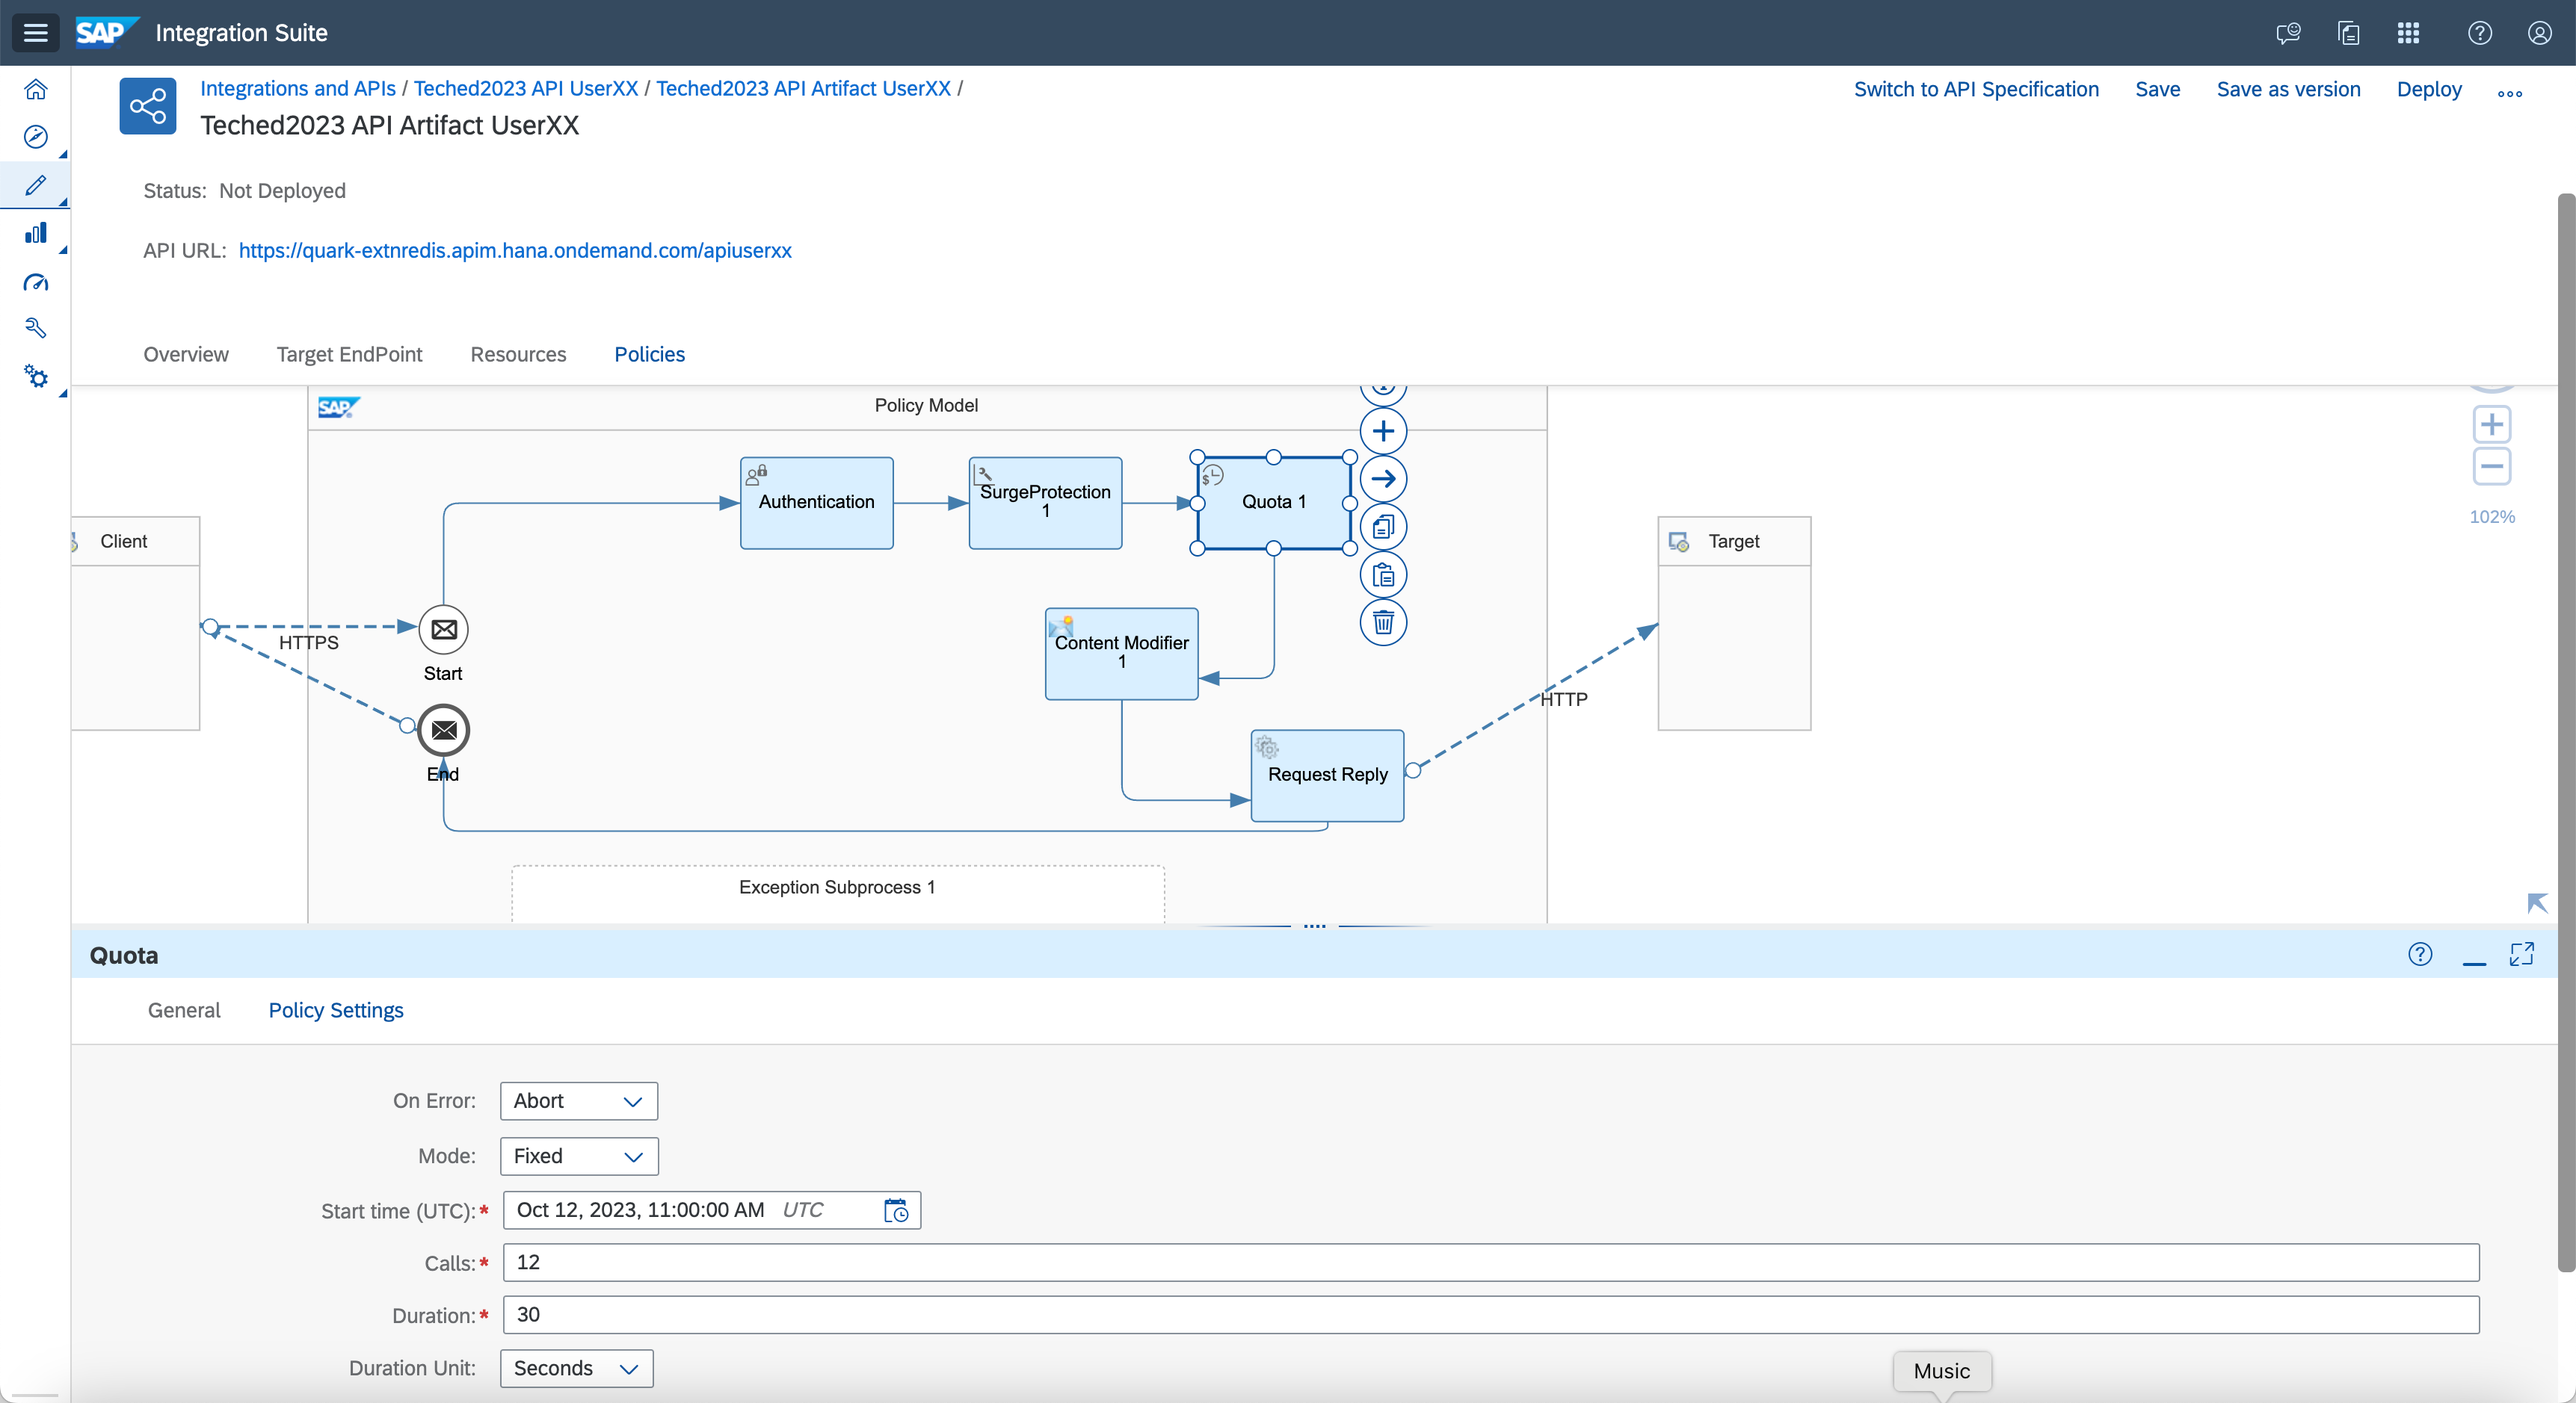
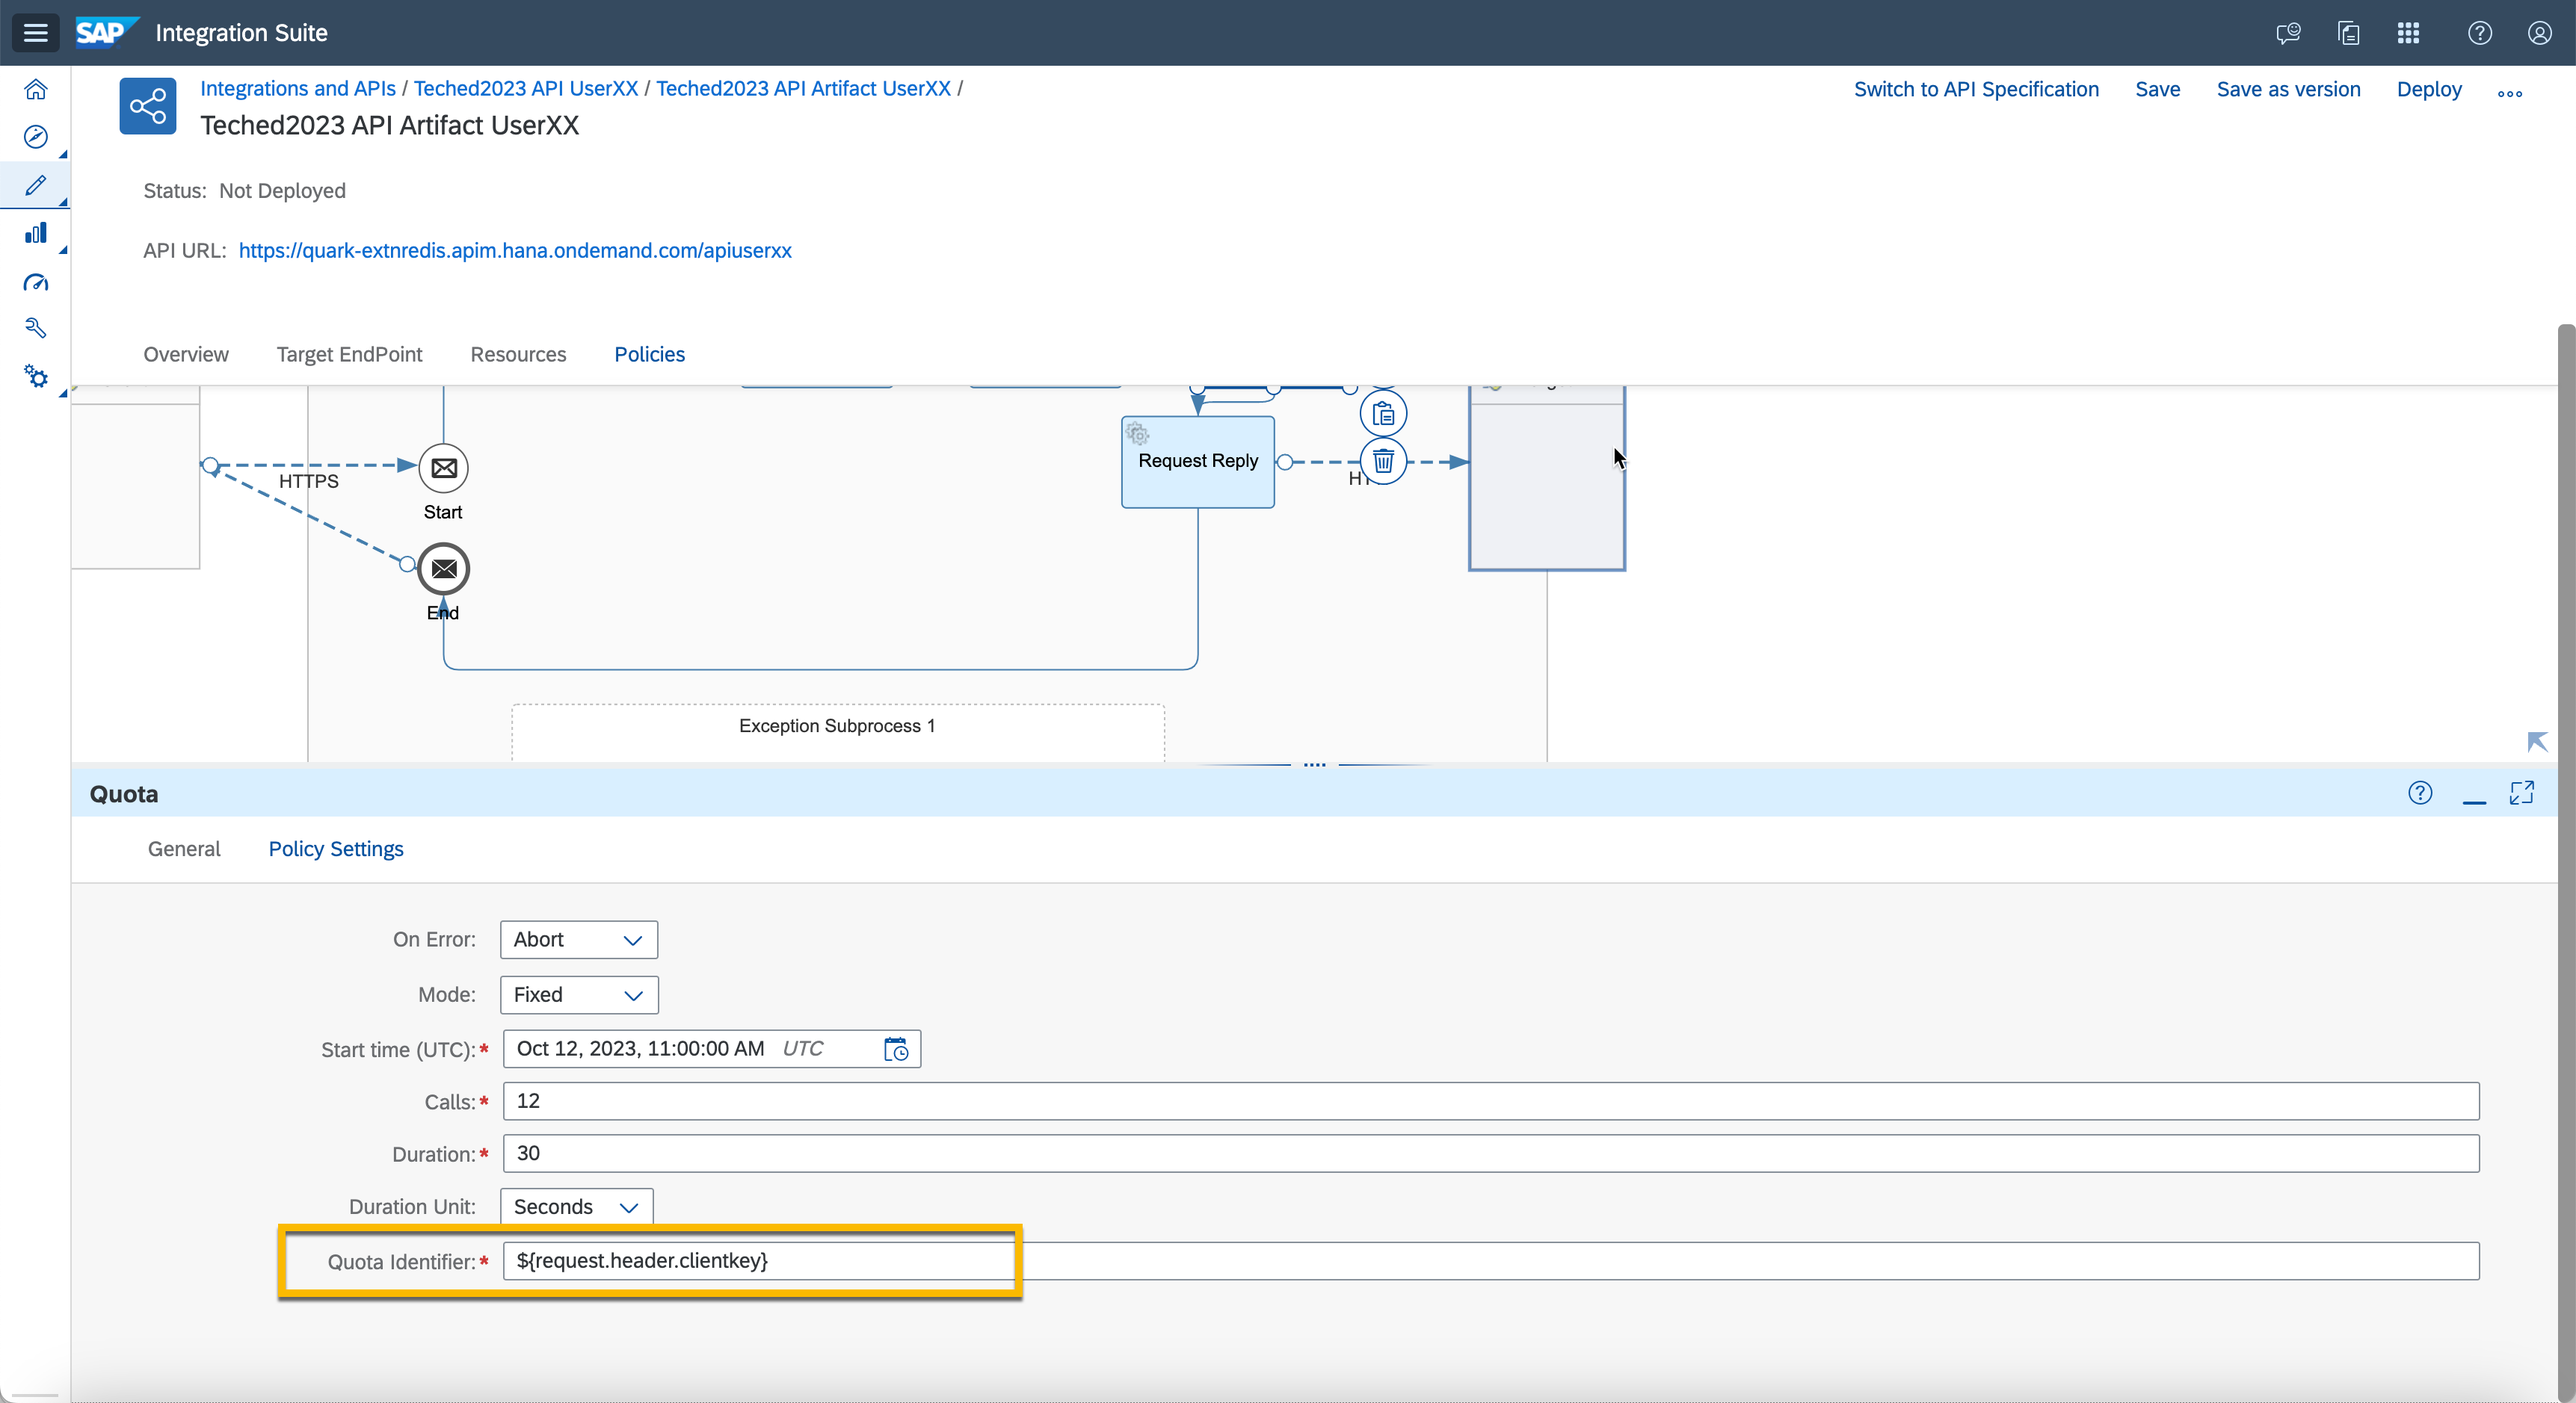
finishing the testing part

diff --git a/exercises/ex4/README.md b/exercises/ex4/README.md
@@ -54,7 +54,7 @@ In the final part of the tutorial, we will create an API, which is a unified ent
 
 <br>![](/exercises/ex4/images/04_12_0010.png)
 
-13. Fill in the remaining fields in the Quota Policy property sheet and click on Save. For the purpose of this exercise, we are allowing 12 calls in a span of 30 seconds for any client which tries to access the API. The client id should be passed as part of the incoming request. We would pass this during the testing of the API
+13. Fill in the remaining fields in the Quota Policy property sheet and click on Save. For the purpose of this exercise, we are allowing 12 calls in a span of 30 seconds for any client which tries to access the API. The field "Quota Identifier" should uniquely identify the client against which the quota is assigned. As part of the highlighted configuration ,it expects "clientkey" header as part of the incoming request to contain the value of the client identifier. Failing to pass this header in the incoming request should fail the policy and hence the request, that is in accordance with the "On Error" configuration which is configured to "Abort" the request if the policy fails. We would verify this during the testing of the API
 
 <br>![](/exercises/ex4/images/04_13_0010.png)
 
@@ -74,12 +74,29 @@ In the final part of the tutorial, we will create an API, which is a unified ent
 
 <br>![](/exercises/ex4/images/04_16_0010.png)
 
-18. Click on Manage Integration Content and confirm that the deployed artifact is in a "Started" state
+18. Click on Manage Integration Content and confirm that the deployed artifact is in a "Started" state and the API is deployed successfully
 
 <br>![](/exercises/ex4/images/04_17_0010.png)
 
 19. From the dropdown, we would select Debug as the log level such that later on post execution of the API , we can visualize the execution of policies and steps in the deployed artifact
 
-<br>![](/exercises/ex4/images/04_17_0010.png)
+<br>![](/exercises/ex4/images/04_18_0010.png)
 
     
+20. Now that we have successfully deployed the API , it is time to test the API. Lets make a call to the deployed artifact endpoint. It should throw an error as shown below since the clientkey header is not passed as part of the incoming request as mentioned in step 12
+
+<br>![](/exercises/ex4/images/04_19_0010.png)
+
+21. Add the required header as part of the request.
+
+<br>![](/exercises/ex4/images/04_20_0010.png)
+
+22. Now , we would try to violate the surge protection policy by invoking the same request multiple times and ideally , if we press the send button more than 6 times in span of 10 seconds, the surge protection policy should start blocking the requests.
+
+<br>![](/exercises/ex4/images/04_21_0010.png)
+
+
+
+
+
+
